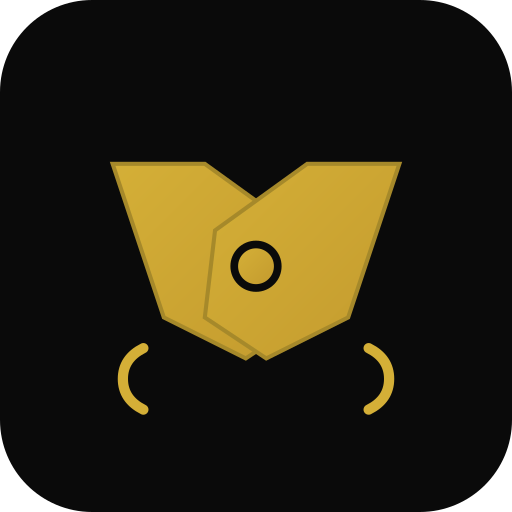
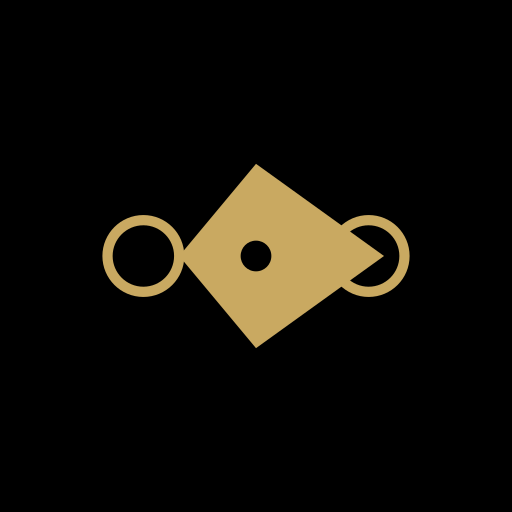
chore: Update .gitignore and refactor test imports for consistency
- Added backup file patterns to .gitignore to prevent unnecessary files from being tracked.
- Refactored import statements in analytics integration and unit tests to include beforeEach for improved test setup consistency.
- Removed redundant logging code from queue and ticket routes to streamline functionality and enhance readability.
- Updated favicon and icon files for better visual representation in the application.

diff --git a/apps/api/src/routes/tickets.ts b/apps/api/src/routes/tickets.ts
@@ -185,38 +185,10 @@ export const ticketRoutes: FastifyPluginAsync = async (fastify) => {
   fastify.delete('/tickets/:id', {
     preHandler: [requireAuth(), requireRole(['owner', 'staff'])],
   }, async (request, reply) => {
-    // #region agent log
-    fetch('http://127.0.0.1:7242/ingest/205e19f8-df1a-492f-93e9-a1c96fc43d6d',{method:'POST',headers:{'Content-Type':'application/json'},body:JSON.stringify({location:'tickets.ts:189',message:'DELETE handler entry',data:{url:request.url,method:request.method,params:request.params,hasAuthHeader:!!request.headers.authorization,authHeaderPrefix:request.headers.authorization?.substring(0,20)},timestamp:Date.now(),sessionId:'debug-session',runId:'run1',hypothesisId:'B'})}).catch(()=>{});
-    // #endregion
-    // Ensure params exist
-    if (!request.params || typeof request.params !== 'object') {
-      // #region agent log
-      fetch('http://127.0.0.1:7242/ingest/205e19f8-df1a-492f-93e9-a1c96fc43d6d',{method:'POST',headers:{'Content-Type':'application/json'},body:JSON.stringify({location:'tickets.ts:193',message:'Params validation failed',data:{params:request.params,paramsType:typeof request.params},timestamp:Date.now(),sessionId:'debug-session',runId:'run1',hypothesisId:'B'})}).catch(()=>{});
-      // #endregion
-      throw new ValidationError('Missing route parameters', [
-        { field: 'params', message: 'Route parameters are required' }
-      ]);
-    }
-
-    // #region agent log
-    const paramsForLog = request.params as Record<string, unknown>;
-    fetch('http://127.0.0.1:7242/ingest/205e19f8-df1a-492f-93e9-a1c96fc43d6d',{method:'POST',headers:{'Content-Type':'application/json'},body:JSON.stringify({location:'tickets.ts:203',message:'Before validation',data:{params:request.params,paramsId:paramsForLog?.id,paramsIdType:typeof paramsForLog?.id},timestamp:Date.now(),sessionId:'debug-session',runId:'run1',hypothesisId:'C'})}).catch(()=>{});
-    // #endregion
     const paramsSchema = z.object({
       id: z.coerce.number().int().positive(),
     });
-    let id: number;
-    try {
-      id = validateRequest(paramsSchema, request.params).id;
-      // #region agent log
-      fetch('http://127.0.0.1:7242/ingest/205e19f8-df1a-492f-93e9-a1c96fc43d6d',{method:'POST',headers:{'Content-Type':'application/json'},body:JSON.stringify({location:'tickets.ts:211',message:'Validation success',data:{id,idType:typeof id},timestamp:Date.now(),sessionId:'debug-session',runId:'run1',hypothesisId:'C'})}).catch(()=>{});
-      // #endregion
-    } catch (error) {
-      // #region agent log
-      fetch('http://127.0.0.1:7242/ingest/205e19f8-df1a-492f-93e9-a1c96fc43d6d',{method:'POST',headers:{'Content-Type':'application/json'},body:JSON.stringify({location:'tickets.ts:214',message:'Validation error caught',data:{error:error instanceof Error?error.message:String(error),errorName:error instanceof Error?error.name:'unknown',isZodError:error instanceof z.ZodError,params:request.params},timestamp:Date.now(),sessionId:'debug-session',runId:'run1',hypothesisId:'C'})}).catch(()=>{});
-      // #endregion
-      throw error;
-    }
+    const { id } = validateRequest(paramsSchema, request.params);
 
     // Get ticket before cancelling (for shop slug)
     const existingTicket = await ticketService.getById(id);

diff --git a/apps/api/src/routes/queue.ts b/apps/api/src/routes/queue.ts
@@ -236,56 +236,14 @@ export const queueRoutes: FastifyPluginAsync = async (fastify) => {
       .filter((bt) => bt.isPresent && bt.waitTime !== null)
       .map((bt) => bt.waitTime as number);
     
-    // #region agent log
-    const logData = {
-      location: 'queue.ts:237',
-      message: 'standardWaitTime calculation',
-      data: {
-        presentBarberWaitTimes,
-        barberWaitTimes: barberWaitTimes.map(bt => ({ id: bt.barberId, name: bt.barberName, waitTime: bt.waitTime, isPresent: bt.isPresent })),
-        calculatedStandardWaitTime: presentBarberWaitTimes.length > 0 ? Math.min(...presentBarberWaitTimes) : null,
-      },
-      timestamp: Date.now(),
-      sessionId: 'debug-session',
-      runId: 'run1',
-      hypothesisId: 'A',
-    };
-    try {
-      await fetch('http://127.0.0.1:7242/ingest/205e19f8-df1a-492f-93e9-a1c96fc43d6d', {
-        method: 'POST',
-        headers: { 'Content-Type': 'application/json' },
-        body: JSON.stringify(logData),
-      }).catch(() => {});
-    } catch {}
-    // #endregion
-    
     const standardWaitTime = presentBarberWaitTimes.length > 0
       ? Math.min(...presentBarberWaitTimes)
       : null;
 
-    // #region agent log
-    const responseData = {
+    return {
       standardWaitTime,
       barberWaitTimes,
     };
-    try {
-      await fetch('http://127.0.0.1:7242/ingest/205e19f8-df1a-492f-93e9-a1c96fc43d6d', {
-        method: 'POST',
-        headers: { 'Content-Type': 'application/json' },
-        body: JSON.stringify({
-          location: 'queue.ts:245',
-          message: 'wait-times response being sent',
-          data: responseData,
-          timestamp: Date.now(),
-          sessionId: 'debug-session',
-          runId: 'run1',
-          hypothesisId: 'A',
-        }),
-      }).catch(() => {});
-    } catch {}
-    // #endregion
-
-    return responseData;
   });
 
   /**

diff --git a/apps/api/src/__tests__/routes/analytics.test.ts b/apps/api/src/__tests__/routes/analytics.test.ts
@@ -1,4 +1,4 @@
-import { describe, it, expect, beforeAll, afterEach } from 'vitest';
+import { describe, it, expect, beforeAll, beforeEach, afterEach } from 'vitest';
 import { getTestDb, resetTestDb, closeTestDb } from '../helpers/db-setup.js';
 import { createShop, createService, createBarber, createTicket } from '../helpers/factories.js';
 import { db, schema } from '../../db/index.js';

diff --git a/apps/api/src/__tests__/routes/analytics.verification.test.ts b/apps/api/src/__tests__/routes/analytics.verification.test.ts
@@ -1,4 +1,4 @@
-import { describe, it, expect, beforeAll, afterEach } from 'vitest';
+import { describe, it, expect, beforeAll, beforeEach, afterEach } from 'vitest';
 import { pool } from '../../db/index.js';
 import { getTestDb, resetTestDb } from '../helpers/db-setup.js';
 import { createShop, createService, createBarber, createTicket } from '../helpers/factories.js';

diff --git a/apps/api/src/__tests__/routes/analytics.integration.test.ts b/apps/api/src/__tests__/routes/analytics.integration.test.ts
@@ -1,4 +1,4 @@
-import { describe, it, expect, beforeAll, afterEach } from 'vitest';
+import { describe, it, expect, beforeAll, beforeEach, afterEach } from 'vitest';
 import Fastify from 'fastify';
 import { analyticsRoutes } from '../../routes/analytics.js';
 import { getTestDb, resetTestDb } from '../helpers/db-setup.js';

diff --git a/apps/api/src/routes/services.ts b/apps/api/src/routes/services.ts
@@ -238,6 +238,3 @@ export const serviceRoutes: FastifyPluginAsync = async (fastify) => {
   });
 };
 
-
-
-
